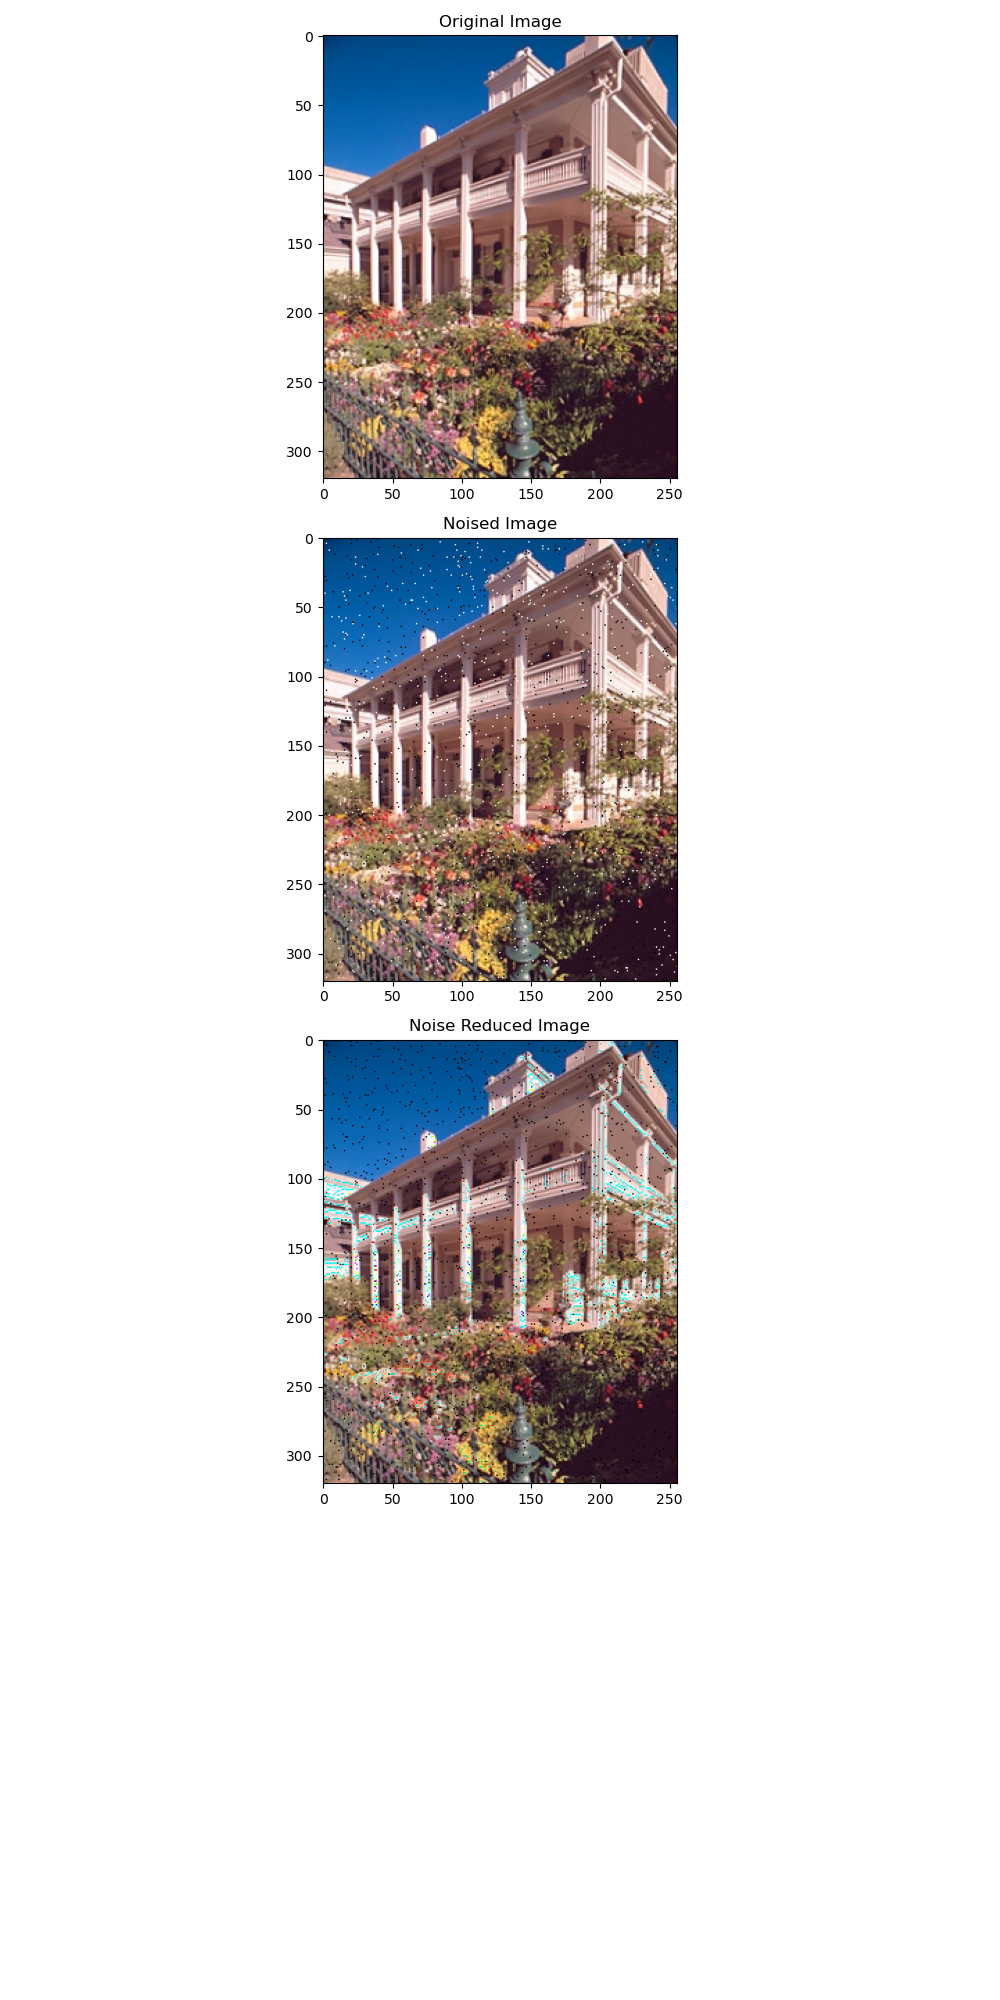
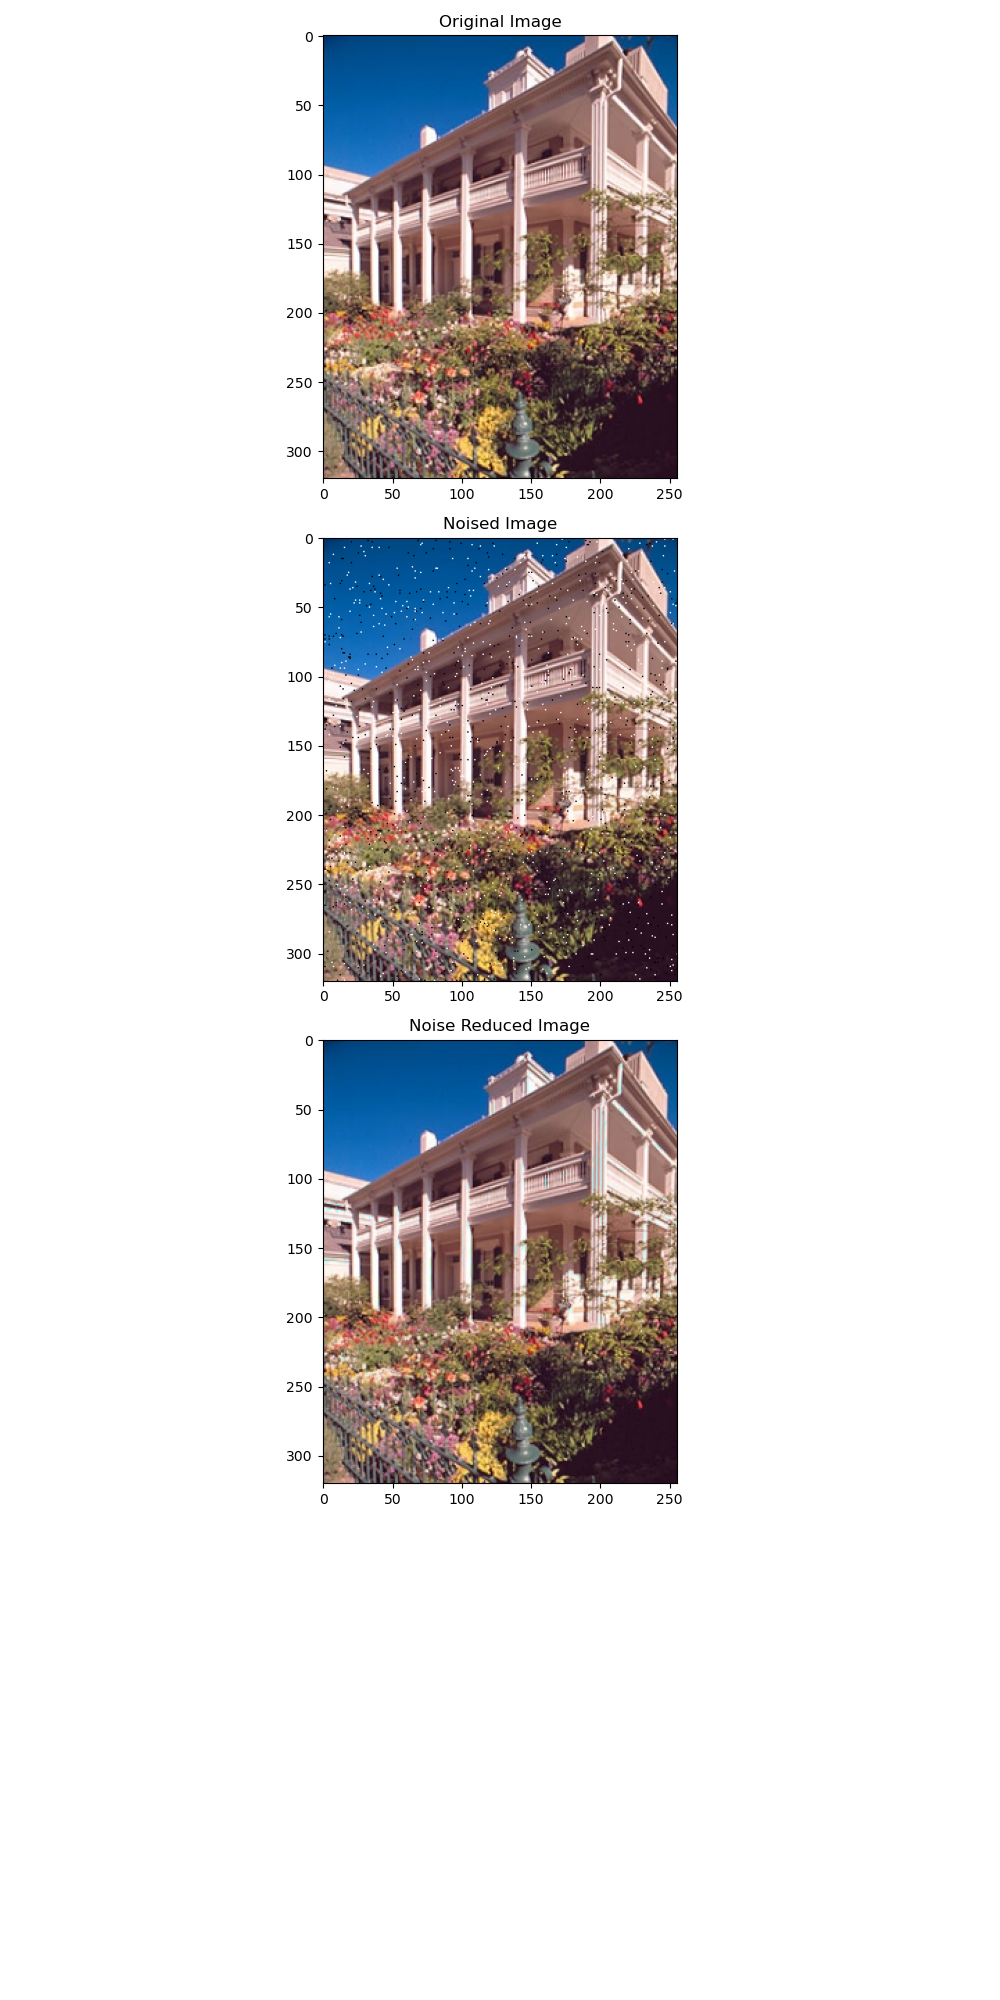
2020.09.14 11:30 Error detected in salt and pepper denoise function... - Done

diff --git a/CIS_Processing.py b/CIS_Processing.py
@@ -15,13 +15,14 @@ def hw_RSEPD(input_image = None, Ts = 20):
     for i in range(1, rowsize + 1):
         for j in range(1, colsize + 1):
             ## Extreme Data Detector
-            MINinW = 0
-            MAXinW = 255
+            MINinW = 0.
+            MAXinW = 255.
             pi = 0
 
             # f_bar = padIm[i, j]
             f_bar = 0
-
+            flag1 = padIm[i, j] == MINinW
+            flag2 = padIm[i, j] == MAXinW
             if ((padIm[i, j] == MINinW) or (padIm[i, j] == MAXinW)):
                 pi = 1 # Noisy pixel
 
@@ -43,30 +44,30 @@ def hw_RSEPD(input_image = None, Ts = 20):
                         else:
                             f_hat = ((padIm[i - 1, j - 1]) + 2 * (padIm[i - 1, j]) + (padIm[i - 1, j + 1])) / 4
 
-                    else: # If surrounding pixel is not noisy
-                        Da = abs(padIm[i - 1, j - 1] - padIm[i + 1, j])
-                        Db = abs(padIm[i - 1, j]     - padIm[i + 1, j])
-                        Dc = abs(padIm[i - 1, j + 1] - padIm[i + 1, j])
+                else: # If surrounding pixel is not noisy
+                    Da = abs(padIm[i - 1, j - 1] - padIm[i + 1, j])
+                    Db = abs(padIm[i - 1, j]     - padIm[i + 1, j])
+                    Dc = abs(padIm[i - 1, j + 1] - padIm[i + 1, j])
 
-                        f_hat_Da = (padIm[i - 1, j - 1] + padIm[i + 1, j]) / 2
-                        f_hat_Db = (padIm[i - 1, j]     + padIm[i + 1, j]) / 2
-                        f_hat_Dc = (padIm[i - 1, j + 1] + padIm[i + 1, j]) / 2
+                    f_hat_Da = (padIm[i - 1, j - 1] + padIm[i + 1, j]) / 2
+                    f_hat_Db = (padIm[i - 1, j]     + padIm[i + 1, j]) / 2
+                    f_hat_Dc = (padIm[i - 1, j + 1] + padIm[i + 1, j]) / 2
 
-                        D = np.array([Da, Db, Dc])
-                        Dmin = np.min(D)
+                    D = np.array([Da, Db, Dc])
+                    Dmin = np.min(D)
 
-                        if (Dmin == Da):
-                            f_hat = f_hat_Da
-                        elif (Dmin == Db):
-                            f_hat = f_hat_Db
-                        else:
-                            f_hat = f_hat_Dc
-
-                    # Impulse Arbiter
-                    if (abs(padIm[i, j] - f_hat) > Ts):
-                        f_bar = f_hat
+                    if (Dmin == Da):
+                        f_hat = f_hat_Da
+                    elif (Dmin == Db):
+                        f_hat = f_hat_Db
                     else:
-                        f_bar = padIm[i, j]
+                        f_hat = f_hat_Dc
+
+                # Impulse Arbiter
+                if (abs(padIm[i, j] - f_hat) > Ts):
+                    f_bar = f_hat
+                else:
+                    f_bar = padIm[i, j]
 
             row_buffer[j - 1] = f_bar
 
@@ -76,7 +77,8 @@ def hw_RSEPD(input_image = None, Ts = 20):
         padIm[i, :] = np.pad(row_buffer, [1], 'symmetric')
 
     print("hw_RSEPD end")
-
+    denoised_image = np.clip(denoised_image, 0, 255)
+    denoised_image = denoised_image.astype(np.uint8)
     return denoised_image
 
 

diff --git a/from_mat_test.py b/from_mat_test.py
@@ -1,0 +1,25 @@
+import numpy as np
+from scipy.io import loadmat
+from matplotlib import pyplot as plt
+from CIS_Processing import *
+from CIS_Utils import *
+
+orig_image = loadmat("testimg.mat")["noise_img"]
+noised_img = np.zeros(orig_image.shape, dtype = np.uint8)
+denoised_img = np.zeros(orig_image.shape, dtype = np.uint8)
+#
+# for i in range(orig_image.shape[2]):
+#     noised_img[:, :, i] = salt_and_pepper(orig_image[:, :, i], 0.02)
+#
+for i in range(orig_image.shape[2]):
+    denoised_img[:, :, i] = hw_RSEPD(orig_image[:, :, i], 20)
+
+fig = plt.figure(0, figsize = [10, 20])
+plt.subplot(3,1,1)
+plt.imshow(orig_image)
+plt.subplot(3,1,2)
+plt.imshow(noised_img)
+plt.subplot(3,1,3)
+plt.imshow(denoised_img)
+
+plt.show()
